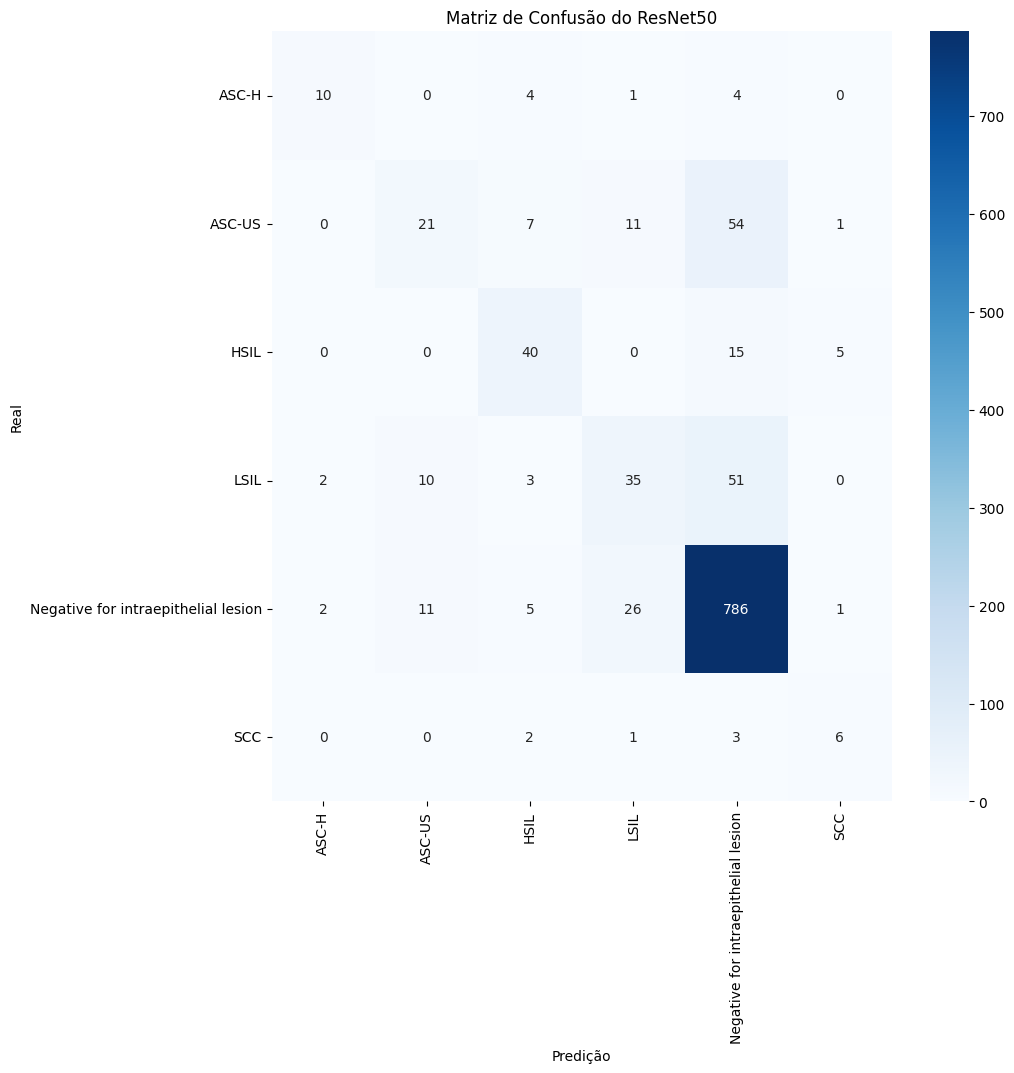
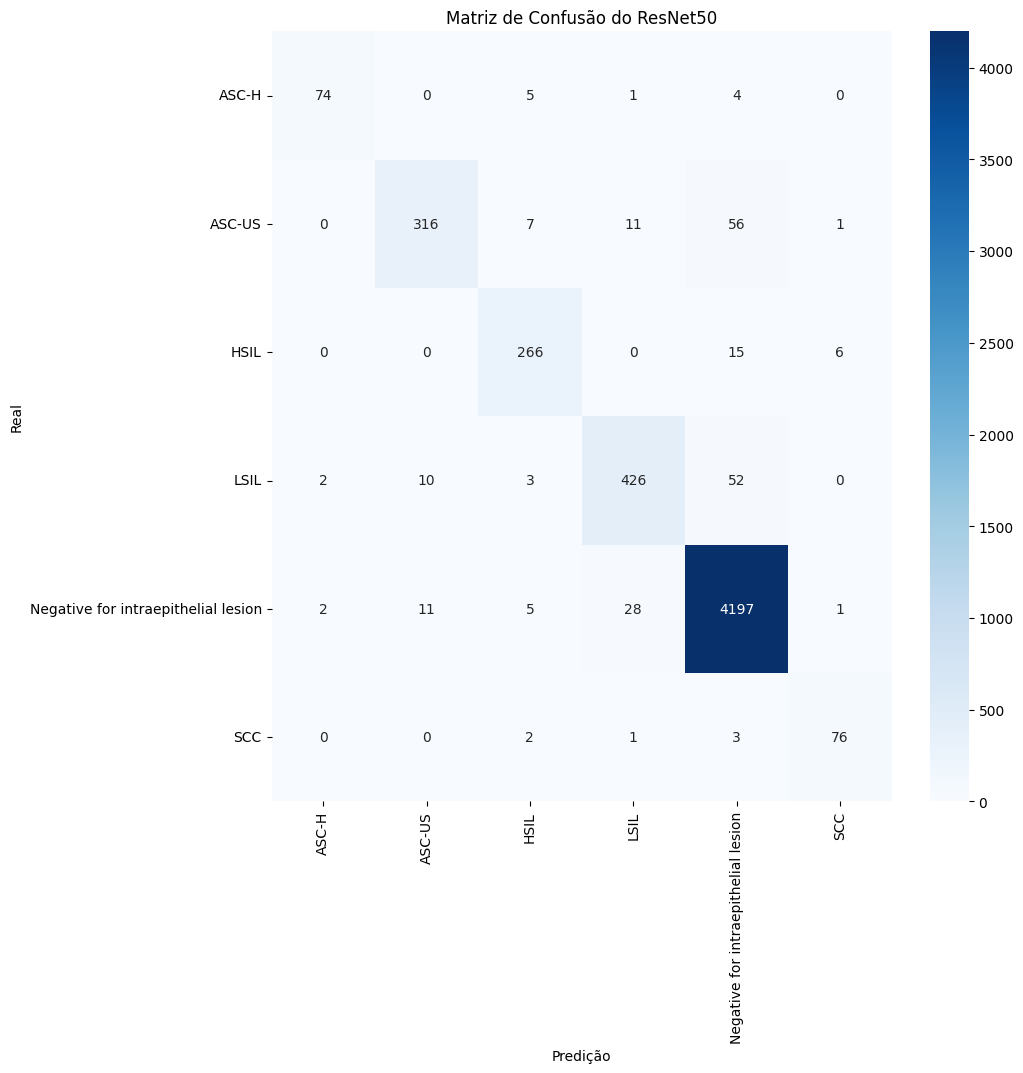
Finalizando o artigo

diff --git a/docs/artigo/main.tex b/docs/artigo/main.tex
@@ -30,14 +30,16 @@
 
 \maketitle
 
-\begin{abstract}
-  
+     
+\begin{abstract} 
+This article proposes and implements an interface capable of loading images and classifying them as containing or not cancer cells. Two artificial intelligences will be implemented capable of classifying between five types of cancers and the healthy cell.
+Besides this classifier, the interface will be capable of processing and analyzing the image.
 \end{abstract}
      
 \begin{resumo} 
-  
+Este artigo propõe e implementa uma interface capaz de ler imagens e classificá-las como contendo ou não células cancerígenas. Serão implementadas 2 inteligências artificiais capazes de classificar entre 5 tipos de câncer e a célula saudável.
+Além deste classificador, a interface será capaz de fazer certos processamentos e análises na imagem.
 \end{resumo}
-
 
 \section{Introdução}
 
@@ -219,6 +221,20 @@
     \label{fig:janela-principal-classificar-imagem}
 \end{figure}
 
+\begin{figure}
+    \centering
+    \includegraphics{Captura de tela 2024-06-16 215855.png}
+    \caption{Janela principal, mostrando os Momentos Invariantes de Hu.}
+    \label{fig:janela-principal-momentos-invariante-hu}
+\end{figure}
+
+\begin{figure}
+    \centering
+    \includegraphics{Captura de tela 2024-06-16 215907.png}
+    \caption{Janela principal, mostrando os Descritores de Haralick.}
+    \label{fig:janela-principal-descritores-haralick}
+\end{figure}
+
 \paragraph{}As bibliotecas utilizadas junto ao programa foram:
 
 \begin{itemize}
@@ -248,21 +264,21 @@
         \hline
          Métrica & Valor\\
          \hline
-         Taxa de Verdadeiro Positivo & 0,29706402567682677\\
+         Taxa de Verdadeiro Positivo & 0,46149403734347655\\
          \hline
-         Taxa de Verdadeiro Negativo & 0,8616177719137162\\
+         Taxa de Verdadeiro Negativo & 0,865422535324905\\
          \hline
-         Taxa de Falso Positivo & 0,13838222808628386\\
+         Taxa de Falso Positivo & 0,13457746467509502\\
          \hline
-         Taxa de Falso Negativo & 0,7029359743231732\\
+         Taxa de Falso Negativo & 0,5385059626565234\\
          \hline
-         Precisão & 0,23151151959845348\\
+         Precisão & 0,2630684113588874\\
          \hline
-         Sensibilidade & 0,29706402567682677\\
+         Sensibilidade & 0,46149403734347655\\
          \hline
-         Acurácia & 0,7746941211578632\\
+         Acurácia & 0,7842680523203728\\
          \hline
-         F-Measure & 0,20164189067018104\\
+         F-Measure & 0,2559065269629602\\
          \hline
     \end{tabular}
     \caption{Métricas do SVM.}
@@ -282,30 +298,35 @@
         \hline
          Métrica & Valor\\
          \hline
-         Taxa de Verdadeiro Positivo & 0,5347949567293516\\
+         Taxa de Verdadeiro Positivo & 0,8993029942974969\\
          \hline
-         Taxa de Verdadeiro Negativo & 0,9111974985645813\\
+         Taxa de Verdadeiro Negativo & 0,9807208072160782\\
          \hline
-         Taxa de Falso Positivo & 0,08880250143541872\\
+         Taxa de Falso Positivo & 0,019279192783921716\\
          \hline
-         Taxa de Falso Negativo & 0,4652050432706483\\
+         Taxa de Falso Negativo & 0,10069700570250299\\
          \hline
-         Precisão & 0,6109054986202922\\
+         Precisão & 0,9328230136088257\\
          \hline
-         Sensibilidade & 0,5347949567293516\\
+         Sensibilidade & 0,8993029942974969\\
          \hline
-         Acurácia & 0,9346463742166518\\
+         Acurácia & 0,9865018216568119\\
          \hline
-         F-Measure & 0,5595695511757917\\
+         F-Measure & 0,9149068540667632\\
          \hline
     \end{tabular}
     \caption{Métricas do ResNet50.}
     \label{tab:metricas-resnet50}
 \end{table}
 
+\paragraph{}O ResNet50 mostrou um resultado melhor que o SVM, porém as métricas relevantes não foram alcançadas com a precisão desejada. Esse desempenho era esperado pois as máquinas utilizadas para treinar o modelo não tinham as configurações ideais para esse tipo de computação.
+
 \paragraph{}Através da matriz de confusão do modelo SVM, foi possível concluir que o Supporting Vector Machine não é adequado para a identificação de células cancerígenas.
 
-\paragraph{}O modelo foi treinado de diversas formas diferentes, sempre maximizando o score em um valor fixo, o que significa que o melhor valor possível, utilizando esta base de dados, foi alcançado.
+\paragraph{}O SVM foi treinado de diversas formas diferentes, sempre maximizando o score em um valor fixo, o que significa que houve overfit durante o treinamento.
+
+\paragraph{}Novamente houve a tentativa de treinamento balanceando a base de treinamento porém a solução não foi eficiente o suficiente para ser satisfatória.
+Entretanto foi possível evitar o overfit e garantir que o resultado era melhor do que aleatório.
 
 \subsection{Tempo}
 
@@ -325,7 +346,18 @@
     \label{fig:grafico-svm-vs-resnet-tempo-por-classe}
 \end{figure}
 
+\paragraph{}Não houve diferença de tempo significativa na classificação entre elementos de classe diferentes.
+
 \section{Conclusão}
+\paragraph{}O presente trabalho apresentou o desenvolvimento de uma interface para classificação de imagens de células cancerígenas utilizando dois modelos de aprendizado de máquina: Support Vector Machines (SVM) e Residual Neural Network de 50 camadas (ResNet50). Através da implementação e análise dos resultados, foi possível verificar que o modelo ResNet50 obteve desempenho significativamente superior em comparação ao SVM, com melhores métricas de precisão, sensibilidade e acurácia.
+
+\paragraph{}Os resultados mostraram que, enquanto o SVM apresentou problemas de overfitting e uma taxa de verdadeiro positivo inferior a 50\%, o ResNet50 demonstrou uma alta taxa de verdadeiro positivo e um baixo índice de falsos negativos. Contudo, apesar da superioridade do ResNet50, ambos os modelos não alcançaram a precisão desejada, indicando a necessidade de ajustes e melhorias no processo de treinamento e otimização dos modelos.
+
+\paragraph{}Além das análises de desempenho, a implementação destacou a importância da escolha adequada dos modelos de aprendizado de máquina e da infraestrutura computacional necessária para o treinamento eficiente desses modelos. O tempo de processamento também foi um fator relevante, com o SVM se mostrando mais rápido na classificação de imagens individuais, enquanto o ResNet50, apesar de mais lento, apresentou resultados mais robustos.
+
+\paragraph{}Portanto, conclui-se que a utilização de redes neurais profundas como o ResNet50 é mais adequada para a tarefa de classificação de células cancerígenas, desde que sejam realizados aprimoramentos no treinamento e na otimização do modelo. Este trabalho contribui para o avanço das técnicas de diagnóstico automatizado, proporcionando uma base para futuras pesquisas e desenvolvimento de soluções mais eficazes na área de processamento e análise de imagens médicas.
+
+\paragraph{}
 
 \nocite{cancerCervical}
 \nocite{coloracaoPapanicolau}
